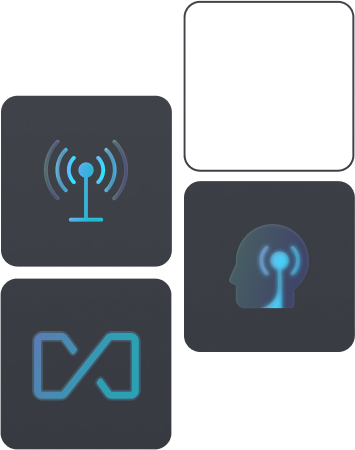
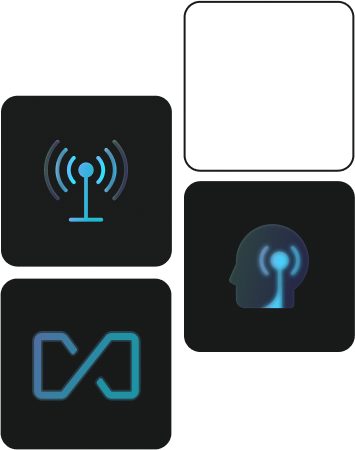
dark mode onboarding

diff --git a/frontend/src/pages/OnboardingFlow/Steps/UserSetup/index.jsx b/frontend/src/pages/OnboardingFlow/Steps/UserSetup/index.jsx
@@ -197,7 +197,7 @@ const JustMe = ({
             <input
               name="password"
               type="password"
-              className="bg-zinc-900 text-white text-sm rounded-lg block w-full p-2.5 focus:outline-primary-button active:outline-primary-button outline-none"
+              className="bg-theme-settings-input-bg text-white text-sm rounded-lg block w-full p-2.5 focus:outline-primary-button active:outline-primary-button outline-none placeholder:text-theme-text-secondary"
               placeholder="Your admin password"
               minLength={6}
               required={true}
@@ -280,7 +280,7 @@ const MyTeam = ({ setMultiUserLoginValid, myTeamSubmitRef, navigate }) => {
                 <input
                   name="username"
                   type="text"
-                  className="bg-zinc-900 text-white text-sm rounded-lg block w-full p-2.5 focus:outline-primary-button active:outline-primary-button outline-none"
+                  className="bg-theme-settings-input-bg text-white text-sm rounded-lg block w-full p-2.5 focus:outline-primary-button active:outline-primary-button placeholder:text-theme-text-secondary outline-none"
                   placeholder="Your admin username"
                   minLength={6}
                   required={true}
@@ -303,7 +303,7 @@ const MyTeam = ({ setMultiUserLoginValid, myTeamSubmitRef, navigate }) => {
                 <input
                   name="password"
                   type="password"
-                  className="bg-zinc-900 text-white text-sm rounded-lg block w-full p-2.5 focus:outline-primary-button active:outline-primary-button outline-none"
+                  className="bg-theme-settings-input-bg text-white text-sm rounded-lg block w-full p-2.5 focus:outline-primary-button active:outline-primary-button placeholder:text-theme-text-secondary outline-none"
                   placeholder="Your admin password"
                   minLength={8}
                   required={true}

diff --git a/frontend/src/pages/OnboardingFlow/Steps/Survey/index.jsx b/frontend/src/pages/OnboardingFlow/Steps/Survey/index.jsx
@@ -122,7 +122,7 @@ export default function Survey({ setHeader, setForwardBtn, setBackBtn }) {
             type="email"
             placeholder="you@gmail.com"
             required={true}
-            className="mt-2 bg-zinc-900 text-white placeholder:text-theme-settings-input-placeholder text-sm font-medium font-['Plus Jakarta Sans'] leading-tight w-full h-11 p-2.5 bg-zinc-900 rounded-lg"
+            className="mt-2 bg-theme-settings-input-bg text-white focus:outline-primary-button active:outline-primary-button placeholder:text-theme-settings-input-placeholder outline-none text-sm font-medium font-['Plus Jakarta Sans'] leading-tight w-full h-11 p-2.5 bg-theme-settings-input-bg rounded-lg"
           />
         </div>
 
@@ -217,7 +217,7 @@ export default function Survey({ setHeader, setForwardBtn, setBackBtn }) {
           <textarea
             name="comment"
             rows={5}
-            className="mt-2 bg-zinc-900 text-white placeholder:text-theme-settings-input-placeholder text-sm rounded-lg focus:ring-blue-500 focus:border-blue-500 block w-full p-2.5"
+            className="mt-2 bg-theme-settings-input-bg text-white text-sm rounded-lg focus:outline-primary-button active:outline-primary-button placeholder:text-theme-settings-input-placeholder outline-none block w-full p-2.5"
             placeholder="If you have any questions or comments right now, you can leave them here and we will get back to you. You can also email team@mintplexlabs.com"
             wrap="soft"
             autoComplete="off"

diff --git a/frontend/src/pages/OnboardingFlow/Steps/LLMPreference/index.jsx b/frontend/src/pages/OnboardingFlow/Steps/LLMPreference/index.jsx
@@ -288,7 +288,7 @@ export default function LLMPreference({
   return (
     <div>
       <form ref={formRef} onSubmit={handleSubmit} className="w-full">
-        <div className="w-full relative border-slate-300/40 shadow border-2 rounded-lg text-white">
+        <div className="w-full relative border-theme-chat-input-border shadow border-2 rounded-lg text-white">
           <div className="w-full p-4 absolute top-0 rounded-t-lg backdrop-blur-sm">
             <div className="w-full flex items-center sticky top-0">
               <MagnifyingGlass
@@ -299,7 +299,7 @@ export default function LLMPreference({
               <input
                 type="text"
                 placeholder="Search LLM providers"
-                className="bg-zinc-600 z-20 pl-10 h-[38px] rounded-full w-full px-4 py-1 text-sm border-2 border-slate-300/40 outline-none focus:outline-primary-button active:outline-primary-button outline-none text-white"
+                className="bg-theme-bg-secondary placeholder:text-theme-text-secondary z-20 pl-10 h-[38px] rounded-full w-full px-4 py-1 text-sm border border-theme-chat-input-border outline-none focus:outline-primary-button active:outline-primary-button outline-none text-white"
                 onChange={(e) => setSearchQuery(e.target.value)}
                 autoComplete="off"
                 onKeyDown={(e) => {

diff --git a/frontend/src/pages/OnboardingFlow/Steps/index.jsx b/frontend/src/pages/OnboardingFlow/Steps/index.jsx
@@ -37,7 +37,7 @@ export function OnboardingLayout({ children }) {
 
   if (isMobile) {
     return (
-      <div className="w-screen h-screen overflow-y-auto bg-mobile-onboarding overflow-hidden">
+      <div className="w-screen h-screen overflow-y-auto bg-theme-bg-secondary overflow-hidden">
         <div className="flex flex-col">
           <div className="w-full relative py-10 px-2">
             <div className="flex flex-col w-fit mx-auto gap-y-1 mb-[55px]">
@@ -87,7 +87,7 @@ export function OnboardingLayout({ children }) {
   }
 
   return (
-    <div className="w-screen overflow-y-auto bg-mobile-onboarding md:bg-main-gradient flex justify-center overflow-hidden">
+    <div className="w-screen overflow-y-auto bg-theme-bg-secondary flex justify-center overflow-hidden">
       <div className="flex w-1/5 h-screen justify-center items-center">
         {backBtn.showing && (
           <button

diff --git a/frontend/src/pages/OnboardingFlow/Steps/CreateWorkspace/index.jsx b/frontend/src/pages/OnboardingFlow/Steps/CreateWorkspace/index.jsx
@@ -78,7 +78,7 @@ export default function CreateWorkspace({
           <input
             name="name"
             type="text"
-            className="bg-zinc-900 text-white placeholder:text-theme-settings-input-placeholder text-sm rounded-lg block w-full p-2.5"
+            className="bg-theme-settings-input-bg text-white focus:outline-primary-button active:outline-primary-button placeholder:text-theme-settings-input-placeholder outline-none text-sm rounded-lg block w-full p-2.5"
             placeholder="My Workspace"
             required={true}
             autoComplete="off"

diff --git a/frontend/src/pages/OnboardingFlow/Steps/Home/index.jsx b/frontend/src/pages/OnboardingFlow/Steps/Home/index.jsx
@@ -8,7 +8,7 @@ export default function OnboardingHome() {
   const navigate = useNavigate();
   return (
     <>
-      <div className="relative w-screen h-screen flex overflow-hidden bg-mobile-onboarding md:bg-main-gradient">
+      <div className="relative w-screen h-screen flex overflow-hidden bg-theme-bg-secondary">
         <div
           className="hidden md:block fixed bottom-10 left-10 w-[320px] h-[320px] bg-no-repeat bg-contain"
           style={{ backgroundImage: `url(${LGroupImg})` }}
